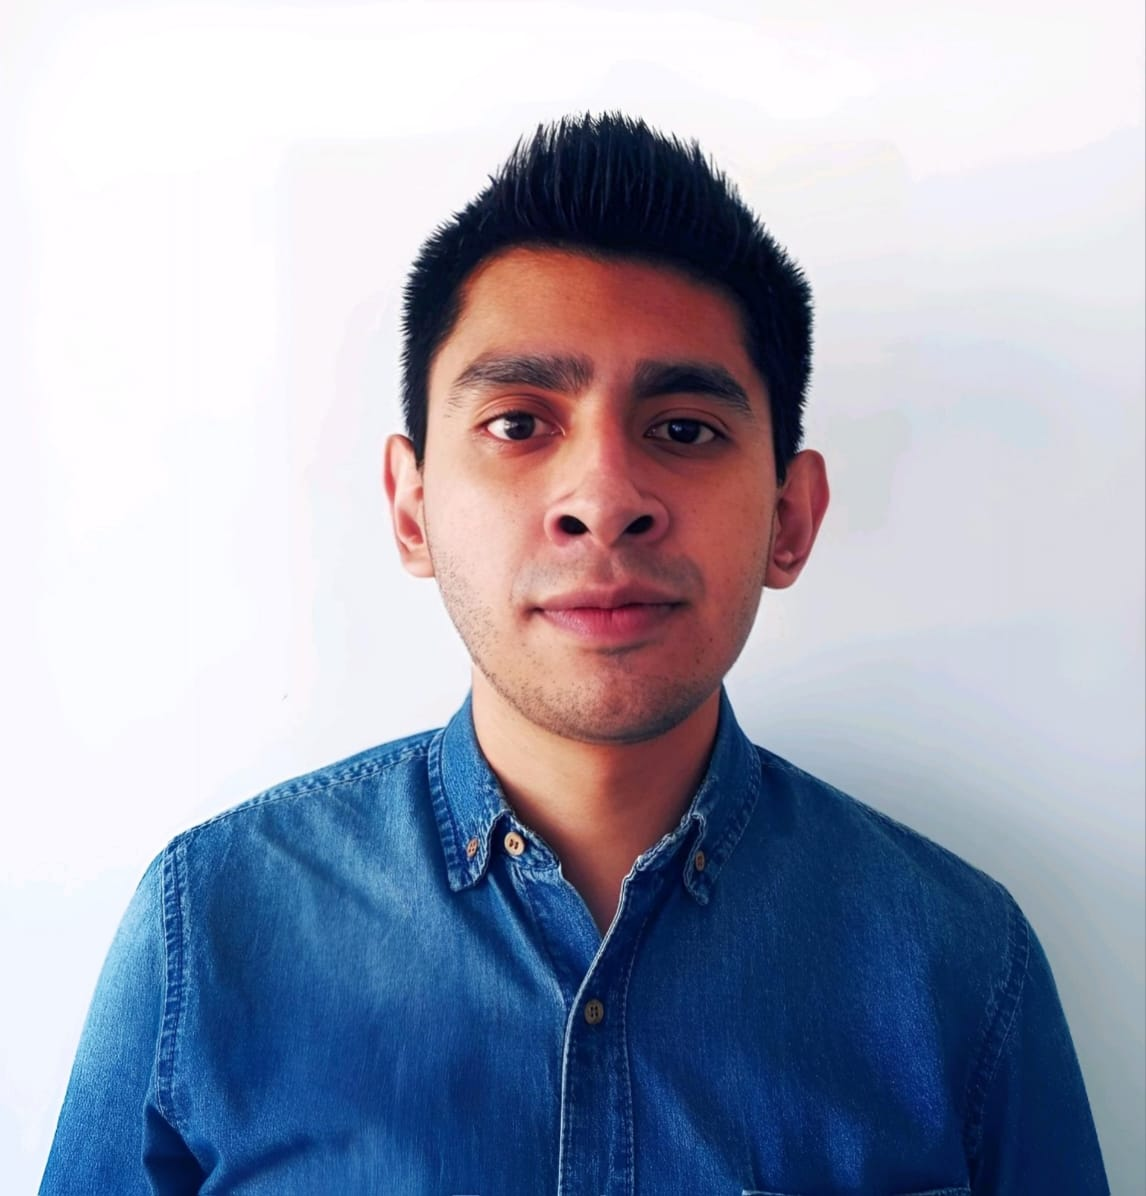
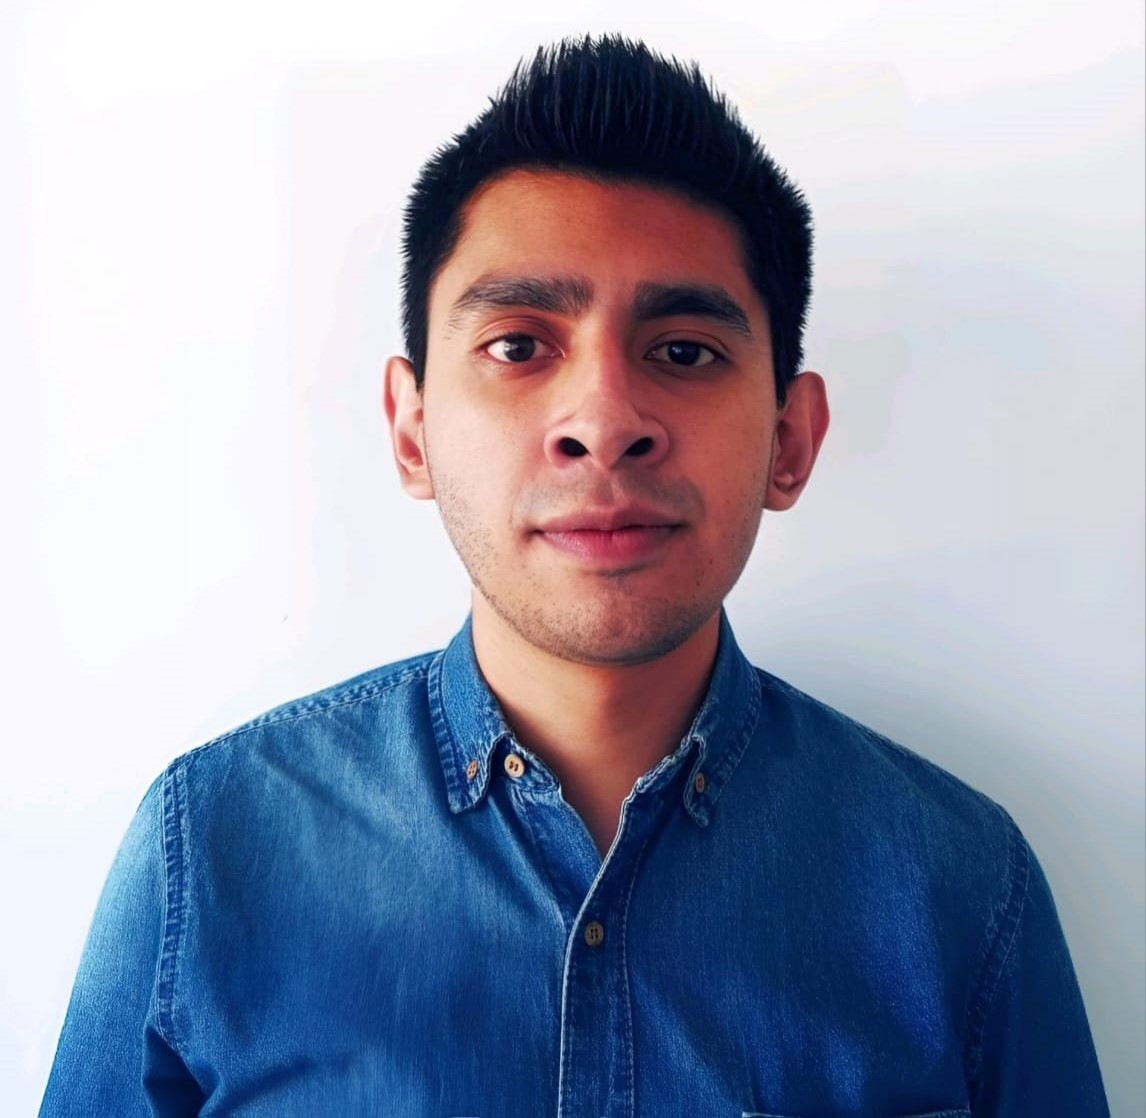
Se realizaron ajustes

Changed region(s): [[0.0305, 0.0304, 0.9468, 0.9732]]

diff --git a/Nosotros/nosotros.html b/Nosotros/nosotros.html
@@ -1,124 +1,77 @@
 <!DOCTYPE html>
 <html lang="es">
-
 <head>
     <meta charset="UTF-8">
     <meta name="viewport" content="width=device-width, initial-scale=1.0">
     <title>Sobre Nosotros</title>
-    <!-- Enlace a Google Fonts -->
-    <link href="https://fonts.googleapis.com/css2?family=Grown&family=Montserrat:wght@400;700&display=swap"
-        rel="stylesheet">
-    <!-- Enlaza tu hoja de estilos CSS personalizada -->
+    <link href="https://fonts.googleapis.com/css2?family=Grown&family=Montserrat:wght@400;700&display=swap" rel="stylesheet">
     <link rel="stylesheet" href="./styles.css">
 </head>
-
 <body>
-   <!-- Titulo Centrado -->
-<div class="fondo-personalizado">
-    <div class="container">
-        <div class="row justify-content-center">
-            <div class="col-12 text-center">
-                <h1 class="display-4 font-weight-bold titulo-principal">Conoce a Nuestro Equipo</h1>
-                <p class="lead subtitulo subtitulo-nosotros">Nosotros</p>
-                <p>Somos un grupo de colaboradores profesionales en el desarrollo de páginas web, honrados de
-                    gozar de atributos como son la atención por los más mínimos detalles, la inteligencia, el
-                    espíritu de la juventud, la confianza y la pasión; que nos ha llevado a ofrecer a nuestros
-                    clientes productos de calidad y eficiencia para inspirar la imaginación y fomentar
-                    diversión.</p>
+    <section class="fondo-personalizado">
+        <div class="container">
+            <div class="row justify-content-center">
+                <div class="col-12 text-center">
+                    <h1 class="display-4 font-weight-bold titulo-principal">Conoce a Nuestro Equipo</h1>
+                    <p class="lead subtitulo subtitulo-nosotros">Nosotros</p>
+                    <p class="lead">Descubre más sobre las personas que hacen esto posible</p>
+                </div>
             </div>
         </div>
-    </div>
-</div>
+    </section>
 
-    <!-- Encabezado antes de las tarjetas -->
-    <div class="container my-5">
-        <div class="row">
-            <div class="col-12">
-                <h2 class="font-weight-bold">Nuestro Equipo</h2>
-                <p class="lead">Descubre más sobre las personas que hacen esto posible</p>
-            </div>
+            <!-- Las tarjetas serán insertadas dinámicamente aquí. -->
         </div>
-
-        <!-- Tarjetas -->
-        <div class="row justify-content-center mt-4">
-            <!-- Elsy -->
-            <div class="col-12 col-sm-6 col-md-4 mb-4">
-                <div class="card" id="Elsy">
-                    <img src="./imagenes/elsy.jpeg" class="card-img-top" alt="Elsy Rosario Morales Altamirano">
-                    <div class="card-body">
-                        <h5 class="card-title">Elsy Rosario Morales Altamirano</h5>
-                        <p class="card-text">Soy Desarrolladora Full Stack con una sólida ética de
-                            trabajo y una pasión por el aprendizaje continuo. Mi objetivo es desarrollarme
-                            profesionalmente en el ámbito tecnológico, aportando soluciones innovadoras y
-                            efectivas. Dentro de este proyecto mi principal papel es como parte del equipo
-                            de desarrollo y posteriormente en otras etapas realizare el papel de SCRUM master.</p>
-                    </div>
-                </div>
-            </div>
-            <!-- Kemble -->
-            <div class="col-12 col-sm-6 col-md-4 mb-4">
-                <div class="card" id="Kemble">
-                    <img src="./imagenes/Kemble.png" class="card-img-top" alt="Aneth Kemble Monroy Tobias">
-                    <div class="card-body">
-                        <h5 class="card-title">Aneth Kemble Monroy Tobias</h5>
-                        <p class="card-text">Desarrolladora Fullstack con formación en Ingeniería Mecatrónica y una sólida pasión por el desarrollo de aplicaciones web.
-                            Me destaco por mi capacidad de aprendizaje continuo, interés en los idiomas, y mi afinidad por la lectura de libros de desarrollo personal.
-                            En mi experiencia profesional, he asumiendo roles clave como Scrum Master , donde gestioné de manera efectiva y 
-                            promoví metodologías ágiles para alcanzar los objetivos de manera eficiente.</p>
-                    </div>
-                </div>
-            </div>
-            <!-- Emmanuel -->
-            <div class="col-12 col-sm-6 col-md-4 mb-4">
-                <div class="card">
-                    <img src="./imagenes/Emmanuel.jpeg" class="card-img-top" alt="Emmanuel Luna Mota">
-                    <div class="card-body">
-                        <h5 class="card-title">Emmanuel Luna Mota</h5>
-                        <p class="card-text">Soy un desarrollador Full Stack apasionado por el aprendizaje continuo y la
-                            resolución de problemas. Con experiencia previa en el ámbito legal, he desarrollado
-                            habilidades como la atención al detalle, la comunicación efectiva y el trabajo en equipo,
-                            que ahora aplico al desarrollo de software. Como parte del equipo de desarrollo, me dediqué
-                            a implementar las funcionalidades del sitio web, asegurándome de que el código sea
-                            eficiente, limpio y funcional.</p>
-                    </div>
-                </div>
-            </div>
-            <!-- Eric -->
-            <div class="col-12 col-sm-6 col-md-4 mb-4">
-                <div class="card">
-                    <img src="./imagenes/Eric.jpg" class="card-img-top" alt="Eric Martinez">
-                    <div class="card-body">
-                        <h5 class="card-title">Eric Martinez Lopez</h5>
-                        <p class="card-text">Soy Desarrollador Java Full Stack Jr. y he desempeñado el papel de Scrum Master,
-                             Me encanta diseñar y crear, me gusta admirar como la tecnologia hace grandes cambios en la forma 
-                             de vivir de todas las personas y me gustaria ser parte de ese gran avance, creo que todos podemos
-                             hacer nuestra parte para que el mundo sea cada día mejor.
-                        </p>
-                    </div>
-                </div>
-            </div>
-            <!-- Candy -->
-            <div class="col-12 col-sm-6 col-md-4 mb-4">
-                <div class="card">
-                    <img src="./imagenes/imagencandy.jpg" class="card-img-top" alt="CandyGarciaFoto">
-                    <div class="card-body">
-                        <h5 class="card-title">Candy Melissa Garcia Ayala</h5>
-                        <p class="card-text">Full Stack Developer Jr.
-                            Soy una persona curiosa y apasionada por la tecnología, con experiencia en
-                            la gestión de equipos y conocimientos en desarrollo web. Actualmente formo parte de este
-                            proyecto colaborativo desempeñándome como parte del equipo de desarrollo así como Scrum
-                            master, donde cada integrante aporta sus
-                            fortalezas para crear un e-commerce innovador y eficiente.</p>
-                    </div>
-                </div>
-            </div>
-        </div>
-    </div>
+    </section>
 
     <script src="../Header_y_footer/header_y_footer.js"></script>
-    <!-- Incluir Bootstrap JS y dependencias de Popper.js y jQuery -->
     <script src="https://code.jquery.com/jquery-3.6.0.min.js"></script>
 
-</body>
+    <script>
+        function crearCard(nombre, src, descripcion, github, linkedin) {
+            return `
+                <div class="col-12 col-sm-6 col-md-4 mb-4">
+                    <div class="card">
+                        <img src="${src}" class="card-img-top" alt="${nombre}">
+                        <div class="card-body">
+                            <div class="social-icons">
+                                <a href="${github}" target="_blank"><i class="bi bi-github"></i></a>
+                                <a href="${linkedin}" target="_blank"><i class="bi bi-linkedin"></i></a>
+                            </div>
+                            <h5 class="card-title">${nombre}</h5>
+                            <p class="card-text">${descripcion}</p>
+                        </div>
+                    </div>
+                </div>
+            `;
+        }
 
+        const equipo = [
+            ['Elsy Rosario Morales Altamirano', './imagenes/elsy.jpeg', 'Soy Desarrolladora Full Stack con una gran habilidad para el Diseño...', 'https://github.com/ElsyA0', 'http://www.linkedin.com/in/elsy-rosario-morales-altamirano-8103231b5'],
+            ['Aneth Kemble Monroy Tobías', './imagenes/Kemble.png', 'Desarrolladora fullstack con formación en Ingeniería Mecatrónica...', 'https://github.com/KembleMT', 'http://www.linkedin.com/in/aneth-kemble-mt'],
+            ['Emmanuel Luna Mota', './imagenes/Emmanuel.jpeg', 'Soy un desarrollador Full Stack con habilidad para el Manejo de Datos...', 'https://github.com/Emmanuel-git2', 'http://www.linkedin.com/in/emmanuel-luna-8047b6215'],
+            ['Eric Martínez López', './imagenes/Eric.png', 'Soy Desarrollador Java Full Stack con habilidades para el Desarrollo de Código...', 'https://github.com/EricMtzLpz', 'https://www.linkedin.com/in/eric-martinez-b55287311'],
+            ['Candy Melissa García Ayala', './imagenes/imagencandy.jpg', 'Soy Desarrolladora Java Full Stack con conocimientos en diversos lenguajes de Programación...',  'https://github.com/CandyMelissaGarcia', 'https://www.linkedin.com/in/candy-melissa-garcia-ayala-88965a187'],
+        ];
+
+      
+
+        document.addEventListener('DOMContentLoaded', () => {
+            const contenedor = document.querySelector('.row.justify-content-center');
+            equipo.forEach(([nombre, src, descripcion, github, linkedin]) => {
+                contenedor.insertAdjacentHTML('beforeend', crearCard(nombre, src, descripcion, github, linkedin));
+            });
+
+            // Añadimos el evento para el sonido al pasar el cursor sobre las tarjetas
+            const tarjetas = document.querySelectorAll('.card');
+            const sonidoSeleccion = new Audio('./sonidoSeleccion.mp3');
+            
+            tarjetas.forEach(tarjeta => {
+                tarjeta.addEventListener('mouseenter', () => {
+                    sonidoSeleccion.play();
+                });
+            });
+        });
+    </script>
+</body>
 </html>

diff --git a/Nosotros/styles.css b/Nosotros/styles.css
@@ -33,7 +33,6 @@ body {
     text-align: center; /* Asegura que esté centrado */
 }
 
-
 /* Fondo personalizado */
 .fondo-personalizado {
     background-color: rgba(13, 227, 255, 0.20); /* Cambia el 0.78 a otro valor para ajustar la transparencia */
@@ -63,7 +62,6 @@ body {
     box-sizing: border-box;
 }
 
-
 .card:hover {
     transform: scale(1.05); /* Aumenta el tamaño de la tarjeta */
     box-shadow: 0 0 30px #9575cd; /* Cambia el sombreado al resaltar */
@@ -82,38 +80,18 @@ body {
     max-height: 50%; /* Limita la altura máxima para las imágenes */
     object-fit: cover; /* Ajusta las imágenes sin recortarlas */
     border-radius: 50%; /* Convertir la imagen en un círculo */
-    padding: 10px; /* Espaciado interno */
-    box-sizing: border-box;
-    position: relative;
+    padding: 10px; /* Añadir valor a la propiedad padding */
 }
 
-.card-img-top::before {
-    content: '';
-    position: absolute;
-    top: 0;
-    left: 0;
-    right: 0;
-    bottom: 0;
-    border-radius: 50%; /* Mantener la forma circular */
-    box-shadow: 0 0 15px 10px rgba(255, 255, 255, 0.5); /* Sombra difuminada con degradado transparente */
-    pointer-events: none; /* Permitir interacción con la imagen */
-}
-
-.card-body {
+/* Estilo para botones de redes sociales */
+.social-icons {
     display: flex;
-    flex-direction: column;
-    align-items: center;
     justify-content: center;
-    flex-grow: 1;
-    padding: 20px; /* Espaciado interno */
-    overflow: hidden; /* Ocultar contenido que exceda el tamaño */
-    text-overflow: ellipsis; /* Puntos suspensivos para texto largo */
+    margin-top: 10px;
 }
 
-/* Media query para pantallas medianas */
-@media (max-width: 768px) {
-    .card {
-        width: calc(100% - 40px); /* Una columna para pantallas medianas y pequeñas */
-    }
+.social-icons a {
+    margin: 0 10px;
+    color: #000;
+    font-size: 24px;
 }
-

diff --git a/Nosotros/funciontarjetas.js b/Nosotros/funciontarjetas.js
@@ -1,0 +1,28 @@
+function crearCard(nombre, src, descripcion) {
+    return `
+        <div class="col-12 col-sm-6 col-md-4 mb-4">
+            <div class="card">
+                <img src="${src}" class="card-img-top" alt="${nombre}">
+                <div class="card-body">
+                    <h5 class="card-title">${nombre}</h5>
+                    <p class="card-text">${descripcion}</p>
+                </div>
+            </div>
+        </div>
+    `;
+}
+
+const equipo = [
+    ['Elsy Rosario Morales Altamirano', './imagenes/elsy.jpeg', 'Soy Desarrolladora Full Stack...'],
+    ['Aneth Kemble Monroy Tobias', './imagenes/Kemble.png', 'Desarrolladora fullstack con formación en Ingeniería Mecatrónica...'],
+    ['Emmanuel Luna Mota', './imagenes/Emmanuel.jpeg', 'Soy un desarrollador Full Stack...'],
+    ['Eric Martinez Lopez', './imagenes/Eric.jpg', 'Soy Desarrollador Java Full Stack...'],
+    ['Candy Melissa Garcia Ayala', './imagenes/imagencandy.jpg', 'Full Stack Developer Jr...']
+];
+
+document.addEventListener('DOMContentLoaded', () => {
+    const contenedor = document.querySelector('.row.justify-content-center');
+    equipo.forEach(([nombre, src, descripcion]) => {
+        contenedor.insertAdjacentHTML('beforeend', crearCard(nombre, src, descripcion));
+    });
+});

diff --git a/Nosotros/README.md b/Nosotros/README.md
@@ -1,0 +1,2 @@
+# Equipo3
+Proyecto integrador del equipo 3 | Generation México
